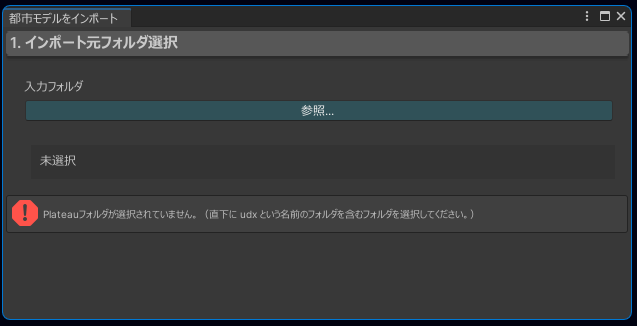
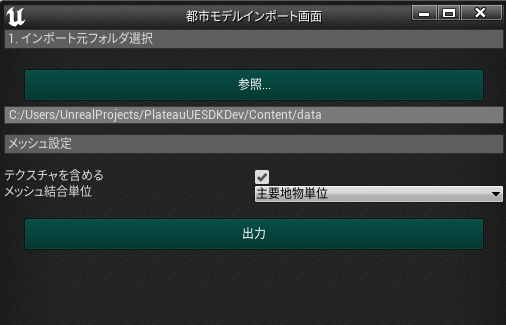
make docs

diff --git a/Documentation/manual/ImportCityModels.md b/Documentation/manual/ImportCityModels.md
@@ -1,16 +1,16 @@
 # 都市モデルのインポート
 
-このページでは、都市データをUnityプロジェクトにインポートする手順を説明します。
+このページでは、都市データをUnrealプロジェクトにインポートする手順を説明します。
 
 ## 準備
 - 都市データを用意します。   
   これは国土交通省のPLATEAUのWebサイトからダウンロードできます。  
-- PlateauSDK を導入したUnityプロジェクトを用意します。  
+- PlateauSDK を導入したUnrealプロジェクトを用意します。  
   SDKの導入方法は [インストール](Installation.md) を参照してください。
 
 ## インポート手順
 ### インポート元の選択
-- Unityのメニューバーから ```PLATEAU → 都市モデルをインポート``` を選択します。   
+- Unrealのメニューバーから ```PLATEAU → 都市モデルをインポート``` を選択します。   
   するとインポートウィンドウが表示されます。
 ![](../resources/manual/importCityModels/importWindowInitial.png)
 - ```参照```ボタンから都市データのフォルダを選択します。   
@@ -31,7 +31,6 @@
 #### 地物タイプの選択
 - インポートしたい地物のタイプについて、下図のようにチェックマークを入れてください。  
   灰色になり選択できないタイプは、データの中に含まれていないタイプです。
-- ```1-3. 対象gmlファイル```の中には、選択した地域IDと地物タイプに合致するgmlファイルのリストが表示されます。
 
 ![](../resources/manual/importCityModels/importWindowGmlTypeSelect.png)
 
@@ -64,9 +63,9 @@
 > 建築物の場合、LOD0 は平面、LOD1は平面に一定の高さを付けたもの、LOD2はより細かい形状です。
 
 - **出力モード**
-  - **選択範囲のうち全LOD**
+  - **全てのLOD**
     - スライダーで選択したLOD範囲のうち、データがあるLOD形状をすべて出力します。
-  - **選択範囲のうち最大LODのみ**
+  - **最大LODのみ**
     - スライダーで選択したLOD範囲のうち、データがある中で最大のLOD形状を1つ出力します。
   - **LODスライダー**
     - ドラッグで動かしてLODの範囲を指定します。
@@ -74,21 +73,24 @@
 ### 出力先選択とインポートの実行
 ![](../resources/manual/importCityModels/importWindowExport.png)
 
+- ```出力```ボタンを押してインポートを実行します。
+
+![](../resources/manual/importCityModels/importWindowExportSelect.png)
+
 - 3Dモデルファイルとメタデータの出力先を指定します。
-  出力先はUnityプロジェクトのAssetsフォルダの内部である必要があります。  
+  出力先はUnrealプロジェクトのContentフォルダの内部である必要があります。  
   ここで選択したフォルダに、 gml ファイルを変換した 3Dモデル(.obj形式)ファイル および メタデータが出力されます。
 
 >[!NOTE]
->   ここで選択したフォルダとは別に、インポート元となる都市データも合わせてUnityプロジェクト内にコピーされます。  
->   こちらのコピー先は、上の設定に関わらず ```Assets/StreamingAssets/PLATEAU``` になります。  
->   こうする意図は、Unityアプリケーションの実行中にgmlファイルのデータを取得する目的で、gmlファイルを StreamingAssetsフォルダに配置する必要があるためです。  
+>   ここで選択したフォルダとは別に、インポート元となる都市データも合わせてUnrealプロジェクト内にコピーされます。  
+>   こちらのコピー先は、上の設定に関わらず ```Content/PLATEAU``` になります。  
+>   こうする意図は、Unrealアプリケーションの実行中にgmlファイルのデータを取得する目的で、gmlファイルを Contentフォルダに配置する必要があるためです。  
 >   なお、インポート対象として選択したものに関連するもののみがコピーされます。
 
-- ```出力```ボタンを押してインポートを実行します。
 - 出力結果を確認します。
    - 3Dモデルファイル(.obj形式)が指定した出力先に生成されます。
-   - 変換したモデルがUnityのシーンに自動で配置されます。
-   - 変換元ファイルが ```Assets/StreamingAssets/PLATEAU``` にコピーされています。
+   - 変換したモデルがUnrealのシーンに自動で配置されます。
+   - 変換元ファイルが ```Content/PLATEAU``` にコピーされています。
    - メタデータが出力先に配置されます。
 ![](../resources/manual/importCityModels/exported.png)
 
@@ -97,20 +99,3 @@
 > メタデータはインポート時の設定を覚えているので、「設定を少し変えて再変換」する操作が便利にできるようになっています。  
 > また、再変換時はシーンに配置されたモデルも置き換わります。  
 > 変換せずにLODを指定して再配置するオプションもあります。
-
-
-### エラーログの確認
-
-ロードに失敗したgmlファイルがある場合、Unityのコンソールにエラーログが出力されます。  
-そのような場合でも、一部のgmlファイルのロードが成功していれば、そのgmlに関しては正常にインポートされています。  
-複数のエラーログが出力されるので、その見方をこの項で説明します。
-![](../resources/manual/importCityModels/importErrorLog.png)
-- 失敗・成功の件数を確認するには
-  - 複数あるエラーログのうち、最後のものを確認すると次のメッセージがあります。  
-    ```Convert end with error. (失敗件数) of (全体件数) gml files are not converted.```  
-    これにより失敗件数が分かります。また、残りのgmlファイルは正常にインポートできたことが分かります。
-- どのgmlファイルでなぜ失敗したのか確認するには
-  - 次のエラーメッセージで、どのgmlファイルで失敗したかを確認できます。  
-    ```Loading gml failed. gml path =(gmlファイルの場所)``` または  
-    ```Gml to obj convert is Failed. gml path =(gmlファイルの場所)```  
-  - 上記のエラーログの直前のエラーは、通常そのgmlファイルのロードに失敗した理由を示します。

diff --git a/Documentation/manual/Installation.md b/Documentation/manual/Installation.md
@@ -1,26 +1,27 @@
 # インストール
-## 対応Unityバージョンのインストール
-- PLATEAU Unity SDK は、Unityバージョン ```2020.3``` を想定しています。  
+## 対応Unrealバージョンのインストール
+- PLATEAU UE SDK は、Unrealバージョン ```4.27``` を想定しています。  
   そのバージョンがインストールされていない場合は、次の手順でインストールしてください。
-  - [Unity Hub をこちらからインストールします](https://unity3d.com/jp/get-unity/download)。
-  - Unity Hubを起動し、左のサイドバーから```インストール``` → 右上のボタンから```インストール``` をクリックします。
-![](../resources/manual/installation/unityHub.png)
-  - Unity 2020.3 で始まるバージョンを選択し、```次へ```を押します。
-![](../resources/manual/installation/unityHubSelectVersion.png)
-  - ```実行``` してインストールします。
+  - [Epic Games Launcher をこちらからインストールします](https://www.unrealengine.com/ja/download)。
+  - Epic Games Launcherを起動し、左のサイドバーから```Unreal Engine``` → 上のメニューから```ライブラリ``` をクリックします。
+![](../resources/manual/installation/epicGameLauncher.png)
+  - ```Engineバージョン```の隣のプラスボタンをクリックしてバージョンを追加し、数字を選択して4.27 で始まるバージョンを選択し、```インストール```を押します。
+![](../resources/manual/installation/epicGameLauncherSelectVersion.png)
 
-## Unityプロジェクトの作成
-- Unity Hub の左サイドバーの```プロジェクト``` を押し、右上の```新規作成```ボタンの右隣にある矢印マークをクリックします。
-![](../resources/manual/installation/unityHubNewProjectVersion.png)
-- 先ほどインストールしたバージョンを選択して```次へ```を押します。
-- プロジェクト名と保存先を入力し```作成```を押します。
-![](../resources/manual/installation/unityHubNewProject.png)
+## Unrealプロジェクトの作成
+- 先ほどインストールしたバージョンを起動します。
+![](../resources/manual/installation/epicGameLauncherLaunchUnrealEngine.png)
+- 新規プロジェクトの欄から```ゲーム```を選択し、```次へ```を押します。
+![](../resources/manual/installation/unrealEngineNewProjectCategory.png)
+- テンプレート選択で```blank```を選択し、```次へ```を押します。
+![](../resources/manual/installation/unrealEngineNewProjectTemplate.png)
+- プロジェクト名と保存先を入力し```プロジェクト作成```を押します。
+![](../resources/manual/installation/unrealEngineNewProject.png)
 
-## PLATEAU Unity SDK の導入
- - Unityのメニューバーから ```Window``` → ```Package Manager``` を選択します。
- - Package Manager ウィンドウの左上の＋ボタンから ```Add package from git URL...``` を選択します。
-![](../resources/manual/installation/packageAddFromGit.png)
- - 次のURLを入力して ```Add``` を押します。  
-   https://github.com/Synesthesias/PlateauUnitySDK.git
- - ウィンドウのパッケージ一覧に ```Plateau Unity SDK``` が表示されたら完了です。
-![](../resources/manual/installation/packageInstalled.png)
+## PLATEAU UE SDK の導入
+ - [PLATEAU UE SDK をこちらからダウンロードします](https://github.com/Synesthesias/PlateauUESDK)。
+![](../resources/manual/installation/downloadFromGit.png)
+ - 作成したプロジェクトのフォルダに```Plugins```という名前のフォルダを作成し、先程ダウンロードしたSDKをコピーします。
+![](../resources/manual/installation/pluginInstall.png)
+ - プロジェクトを開く際に以下の画面が表示されるので```はい```を押して完了です。
+![](../resources/manual/installation/pluginBuild.png)

diff --git a/Documentation/index.md b/Documentation/index.md
@@ -1,4 +1,4 @@
-# PLATEAU SDK for Unity
+# PLATEAU SDK for Unreal
 
-このパッケージには、[PLATEAU](https://www.mlit.go.jp/plateau/)の3D都市モデルデータを利用するためのAPI、サンプルが含まれます。PLATEAU SDK for Unityを利用することで、実世界を舞台にしたゲームの開発や、PLATEAUの豊富なデータを活用したシミュレーションを簡単に行うことができます。
+このパッケージには、[PLATEAU](https://www.mlit.go.jp/plateau/)の3D都市モデルデータを利用するためのAPI、サンプルが含まれます。PLATEAU SDK for Unrealを利用することで、実世界を舞台にしたゲームの開発や、PLATEAUの豊富なデータを活用したシミュレーションを簡単に行うことができます。
 ![](resources/index/citymodel.png)  
